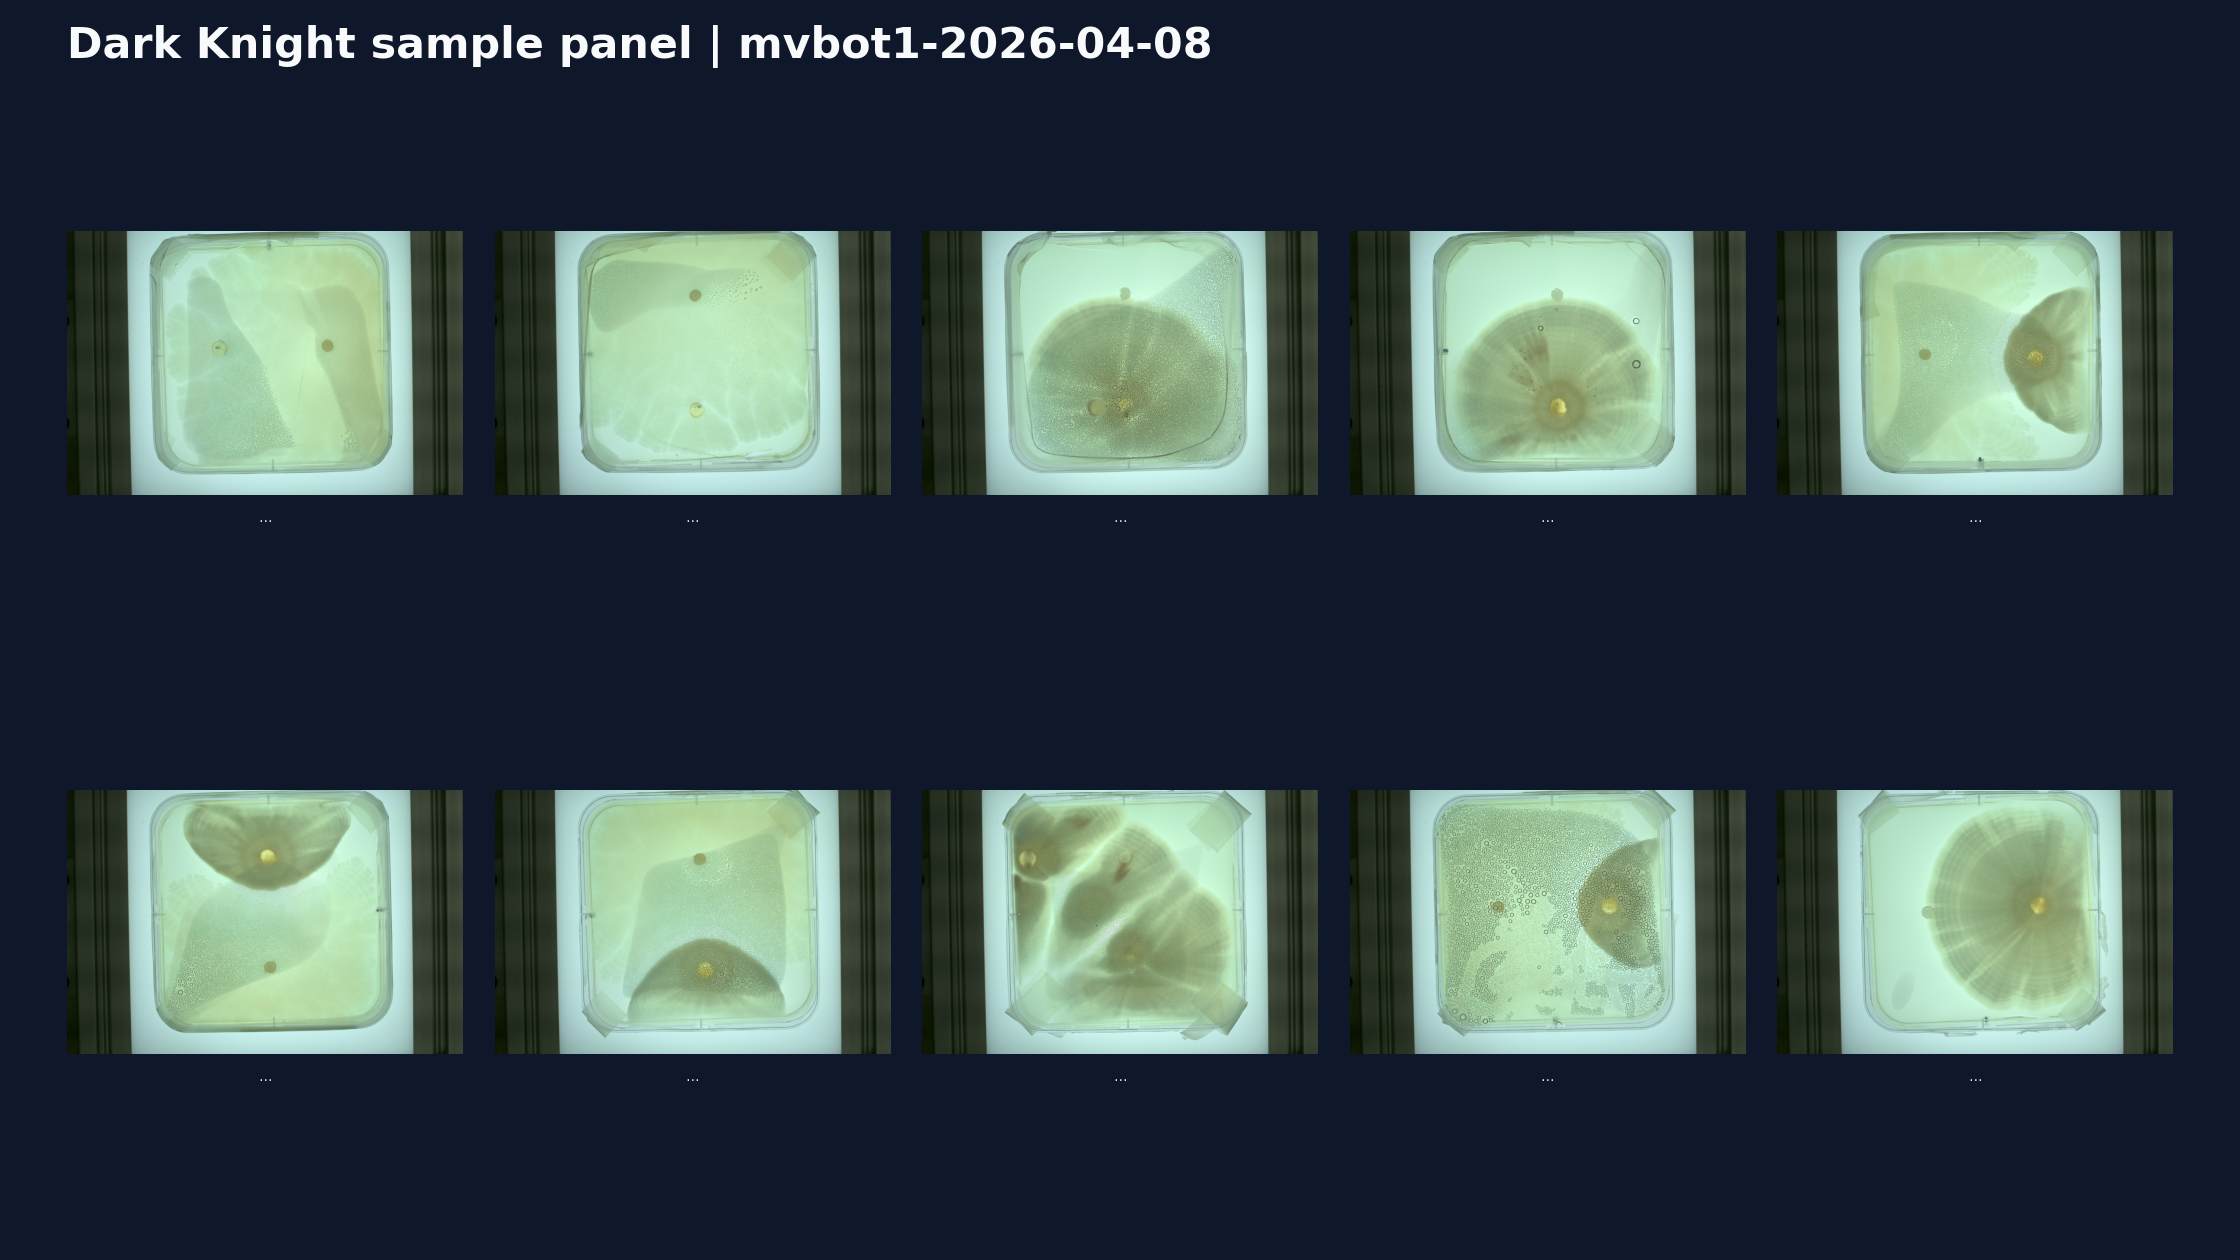
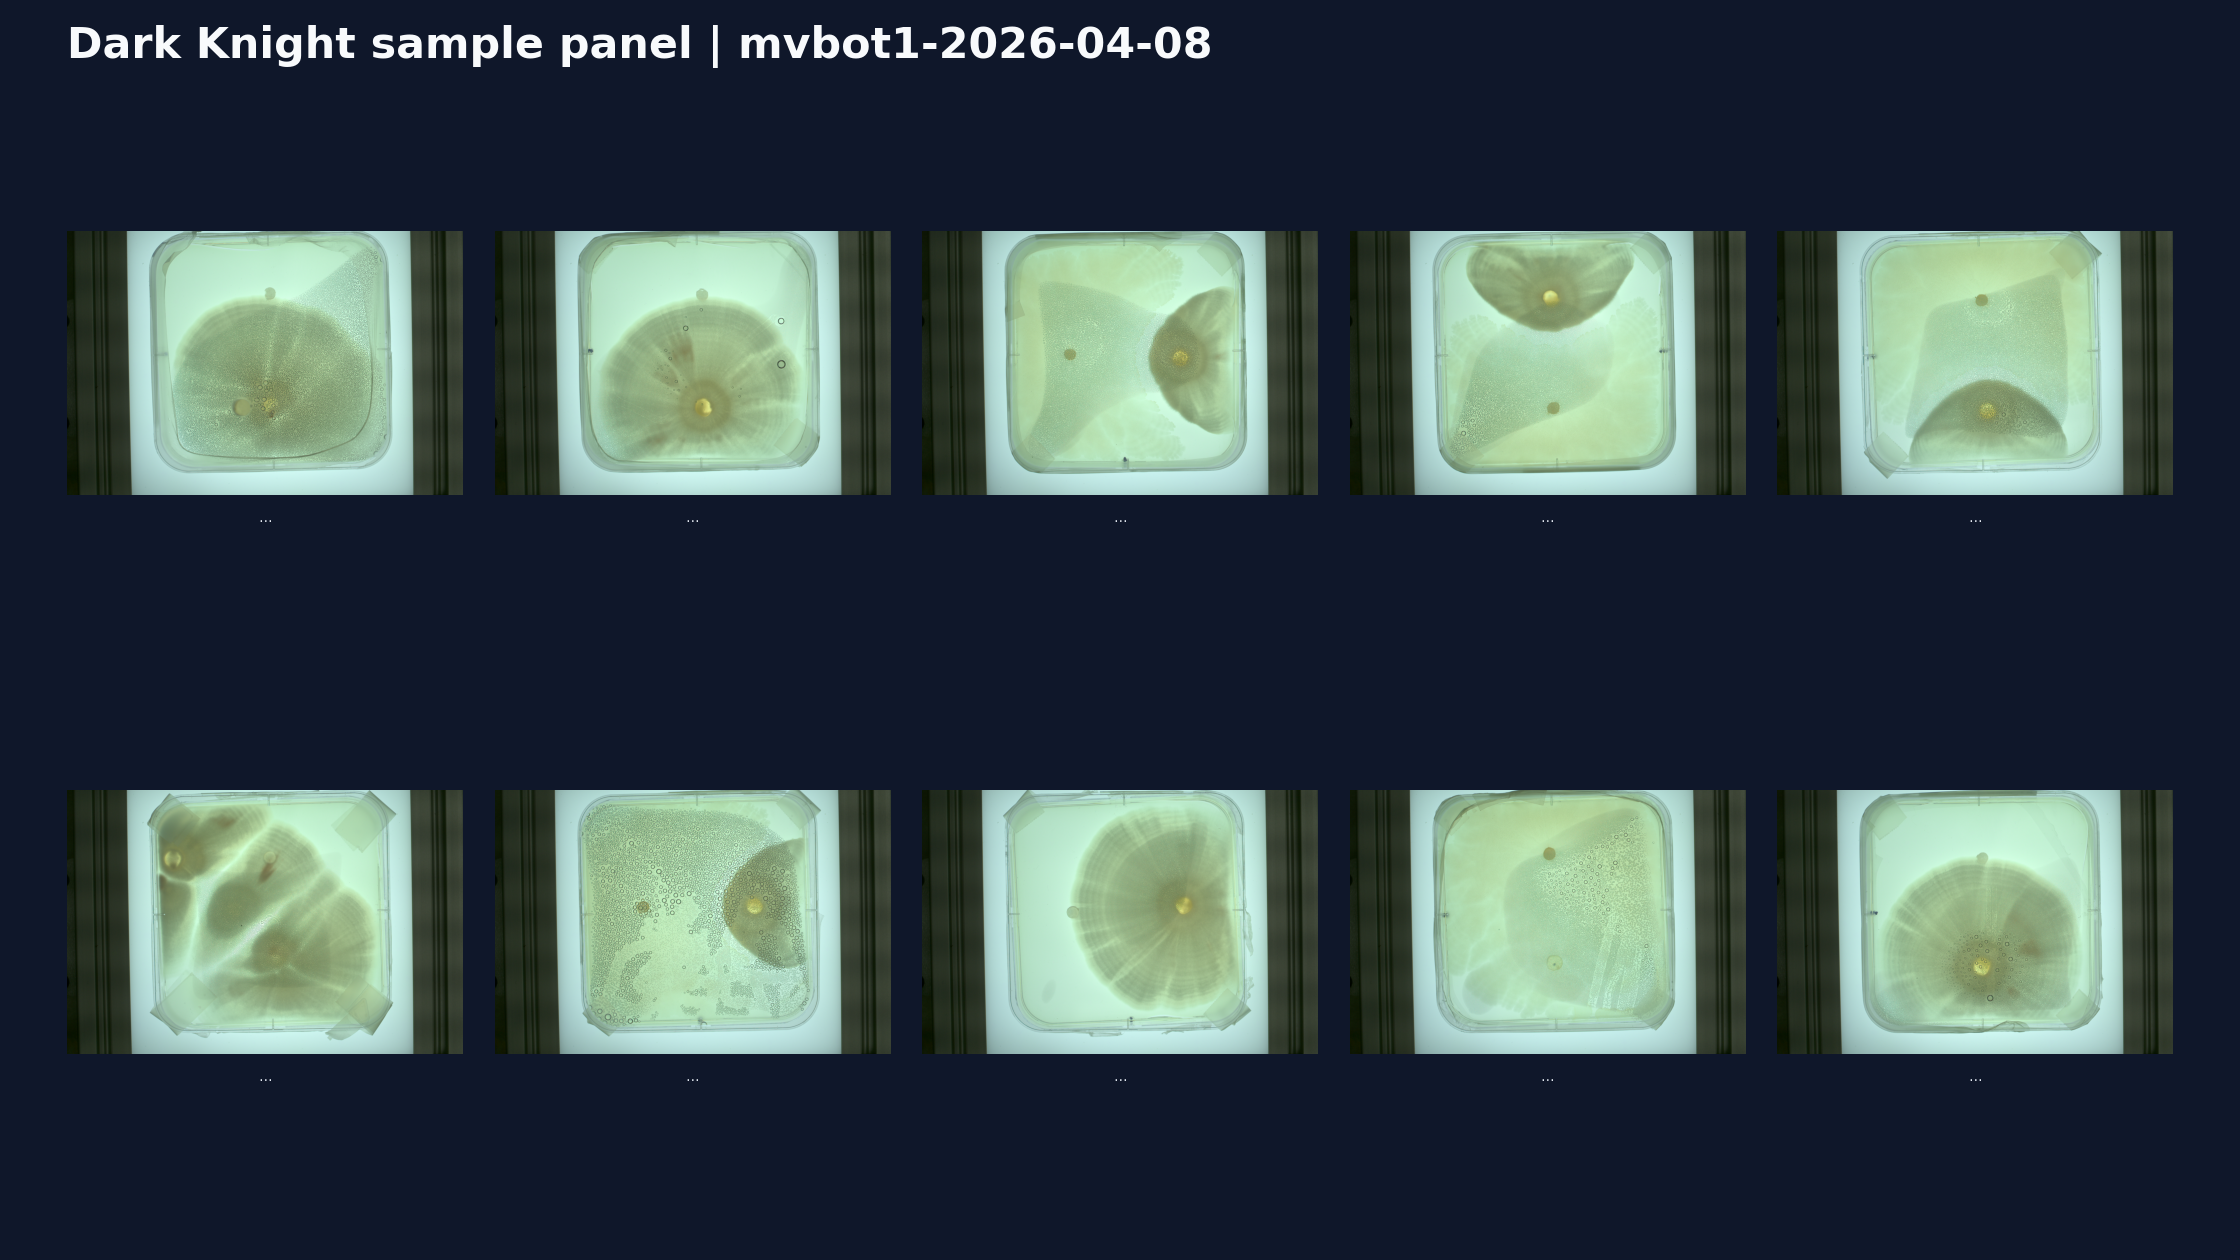
update summary

diff --git a/index.html b/index.html
@@ -165,25 +165,25 @@
                 <div>
                     <p class="eyebrow">Dark Knight Summary Page</p>
                     <h1>&#x1F987; Dark Knight Agent &#x1F50D;</h1>
-                    <p class="subtitle">Experiment: mvbot1.007<br />Updated: 2026-04-17 16:03:56 EDT</p>
+                    <p class="subtitle">Experiment: mvbot1.007<br />Updated: 2026-04-17 17:04:02 EDT</p>
                 </div>
                 <aside class="metrics-card">
                     <p class="metrics-title">Run Snapshot</p>
                     <table>
                         <tr>
                             <th>Loops Completed</th>
-                            <td>16 / ∞</td>
+                            <td>17 / ∞</td>
                         </tr>
                         <tr>
                             <th>Images in Folder</th>
-                            <td>10361</td>
+                            <td>10387</td>
                         </tr>
                     </table>
                     <a class="download-link" href="summary.png" download="dark-knight-panel.png">&#x2B07; Download panel</a>
                 </aside>
             </div>
             <p class="section-title">&#x1F987; Agent Analysis</p>
-            <div class="analysis-box">I am the Dark Knight Agent, an autonomous scientific investigator tasked with uncovering hidden biological signals and guiding adaptive experimentation in a multimodal phenotyping lab. The status file indicates that the system is currently imaging plate 2 at station01 shelf02 during loop 16 of the experiment. The 10-image summary panel reveals a diverse set of microbial colony morphologies, with notable variation in colony size, texture, and radial patterning, as well as some plates exhibiting asymmetric growth or possible contamination. This suggests active microbial competition, potential environmental gradients, and possibly the emergence of distinct phenotypes or stress responses, warranting further cross-modal analysis and targeted follow-up experiments.</div>
+            <div class="analysis-box">I am the Dark Knight Agent, an autonomous scientific investigator in the multimodal phenotyping lab, tasked with uncovering hidden biological signals and guiding experiments under uncertainty. The current experiment run (mvbot1.007) was canceled by the user at loop 17, with plate 14 just imaged before termination. The 10-image summary panel reveals a series of square plates with distinct radial and sectoral growth patterns, heterogeneous colony morphologies, and varying degrees of opacity and texture, suggesting differential microbial or fungal expansion, possible competition zones, and localized resource depletion or metabolic activity. This pattern diversity may indicate either experimental treatment effects, contamination events, or emergent interactions, but the abrupt run cancellation leaves uncertainty about the temporal progression and causal factors behind these observed phenotypes.</div>
             <div class="image-frame">
                 <img class="panel" src="summary.png" alt="Dark Knight sample panel &#x2014; 10 thumbnails" />
             </div>
